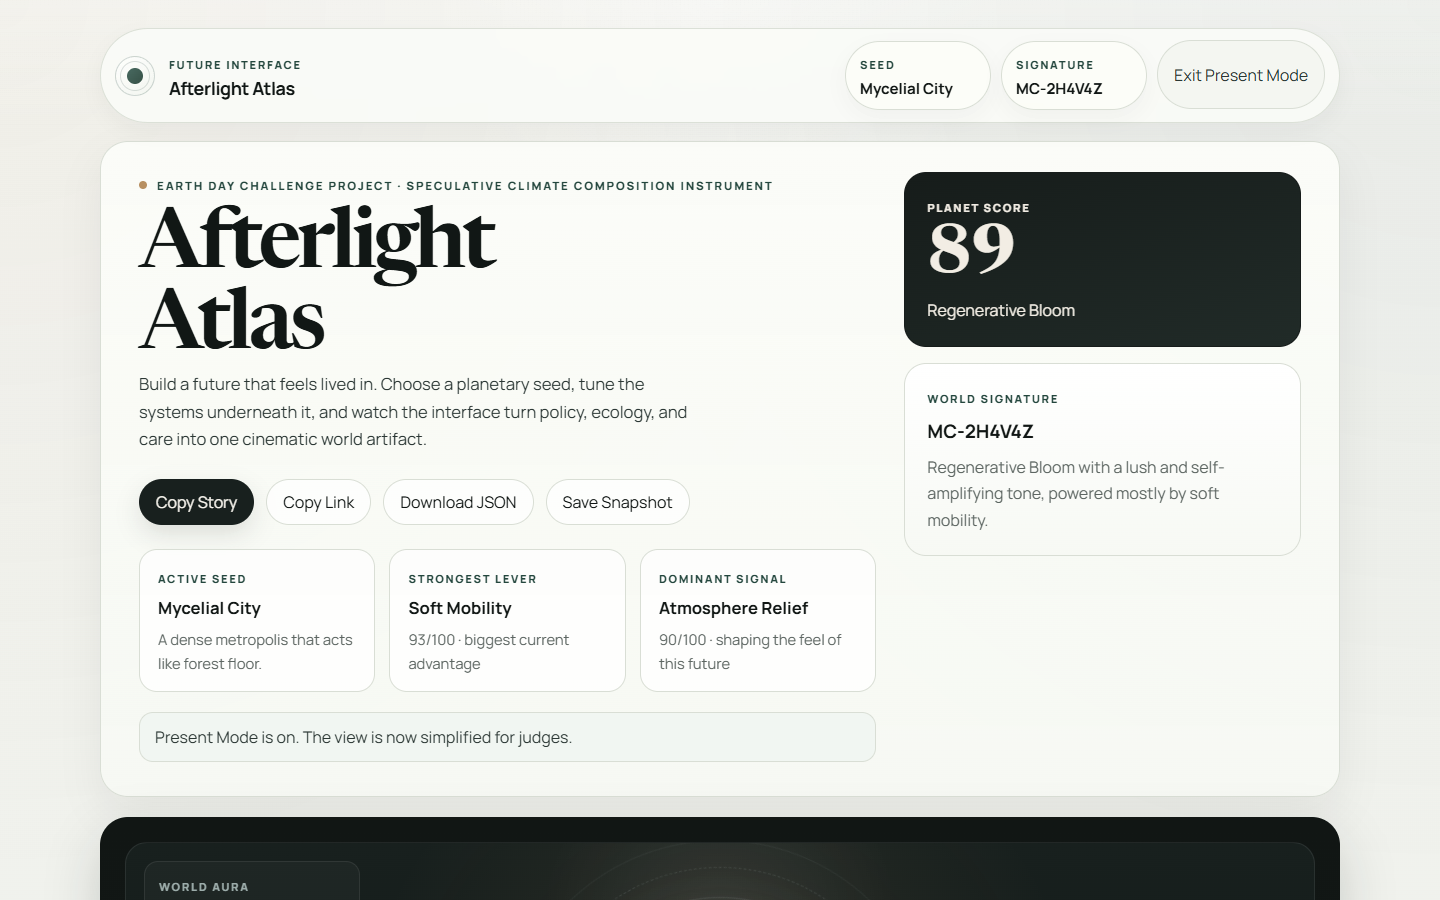
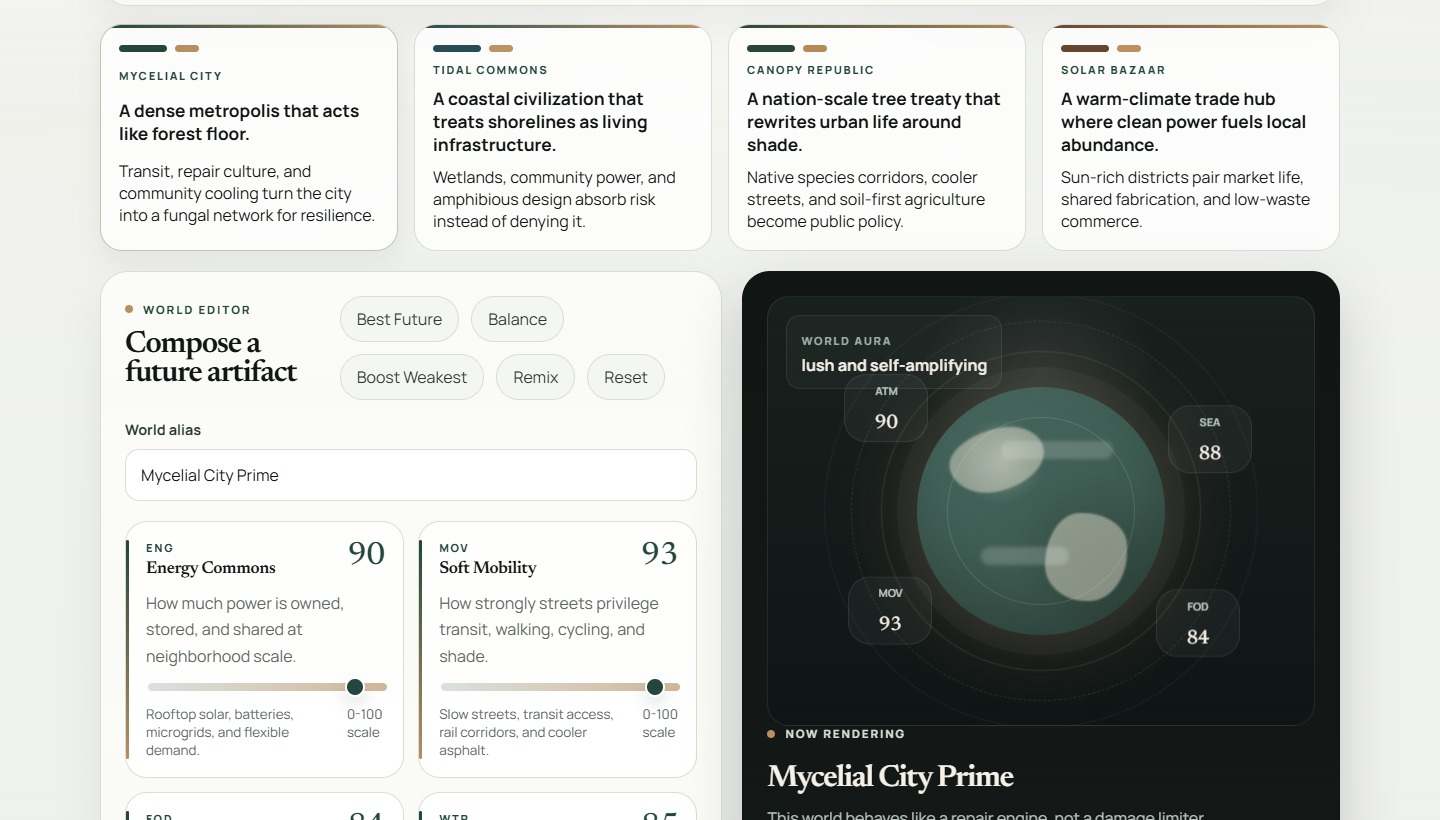
Update README.md to center align the interface preview image

diff --git a/README.md b/README.md
@@ -4,7 +4,9 @@ Speculative climate worldbuilding for Earth Day. Shape future planetary scenario
 
 [Live Demo](https://afterlight-atlas.vercel.app/) · [Challenge Submission](./SUBMISSION.md)
 
-![Afterlight Atlas interface preview](./public/readme-preview.png)
+<p align="center">
+  <img src="./public/readme-preview.png" alt="Afterlight Atlas interface preview" width="960" />
+</p>
 
 ## Overview
 